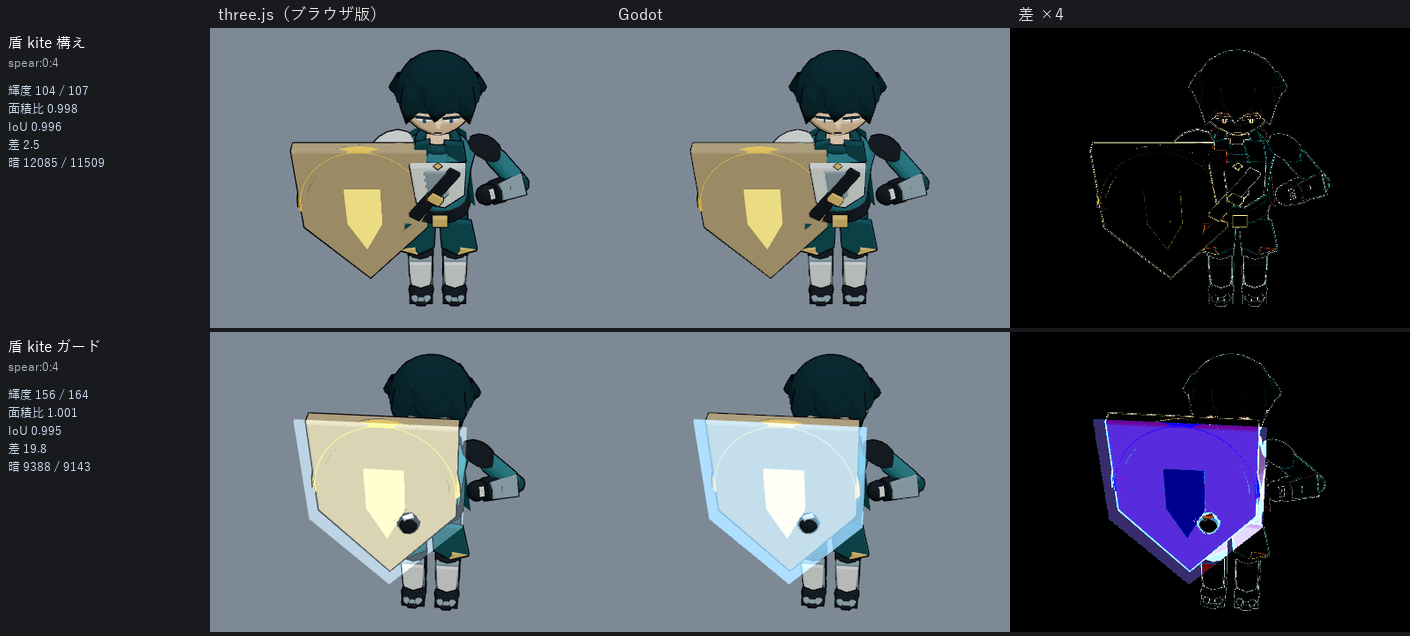
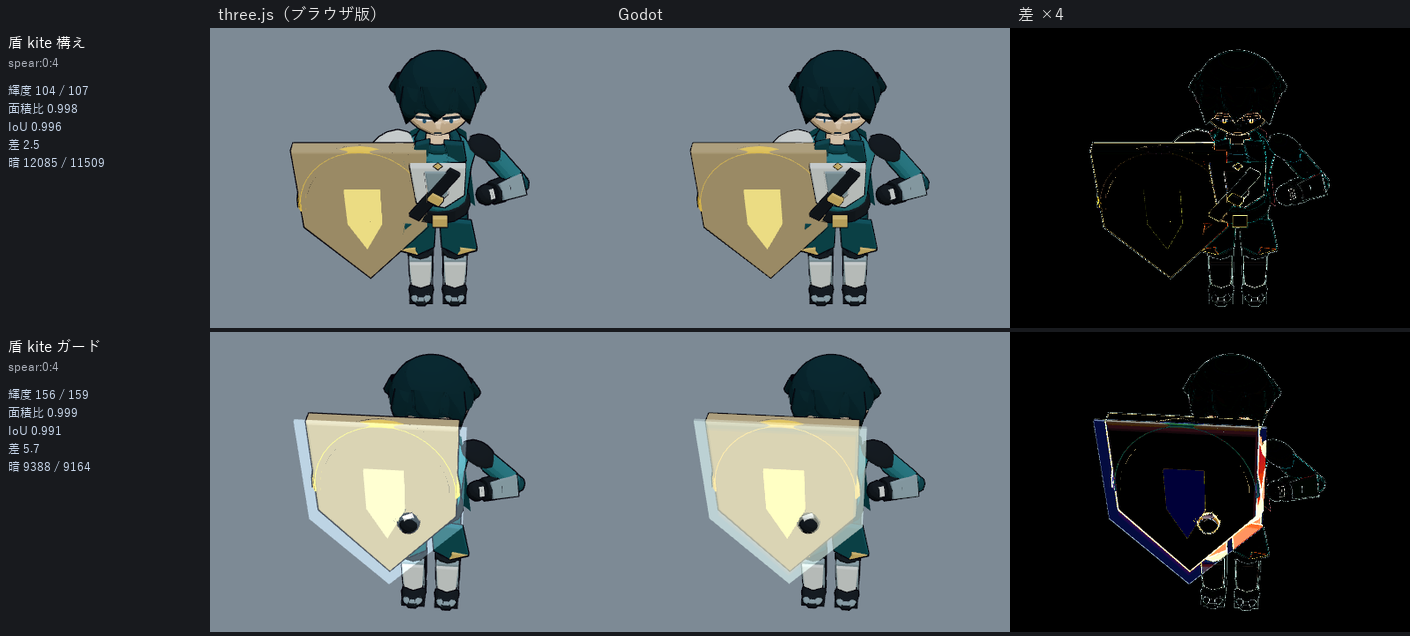
盾のガードの光る板の色を three.js に合わせる（差 19.8 → 5.7、輝度 +8.3 → +2.9、IoU 0.991）
- three の 0x9ad8ff・opacity 0.35・加算・toneMapped（ACES）に対応させた（Luna）
- Luna の 2 姿勢だけの撮り直しで数値表が 2 行に上書きされたため、Opus が全 66 姿勢を撮り直した（平均 IoU 0.995、最小 0.983、17 秒）

diff --git a/art/shots/godot-pose/pose_numbers.md b/art/shots/godot-pose/pose_numbers.md
@@ -67,6 +67,6 @@
 | 防具 見た目5 | sword:0:4 | 150.7 | 153.1 | +2.4 | 0.999 | 0.993 | 2.8 | 3642 | 3141 | 0.86 |
 | 防具 見た目6 | sword:0:4 | 92.7 | 95.2 | +2.5 | 0.990 | 0.983 | 3.4 | 5453 | 4778 | 0.88 |
 | 盾 kite 構え | spear:0:4 | 104.5 | 106.6 | +2.1 | 0.998 | 0.996 | 2.5 | 12085 | 11509 | 0.95 |
-| 盾 kite ガード | spear:0:4 | 156.1 | 164.4 | +8.3 | 1.001 | 0.995 | 19.8 | 9388 | 9143 | 0.97 |
+| 盾 kite ガード | spear:0:4 | 156.1 | 159.1 | +2.9 | 0.999 | 0.991 | 5.7 | 9388 | 9164 | 0.98 |
 
-平均 IoU 0.995（最小 0.983）、輝度差の絶対値の平均 2.38（最大 8.29）、姿勢 66 件
+平均 IoU 0.995（最小 0.983）、輝度差の絶対値の平均 2.30（最大 3.78）、姿勢 66 件
